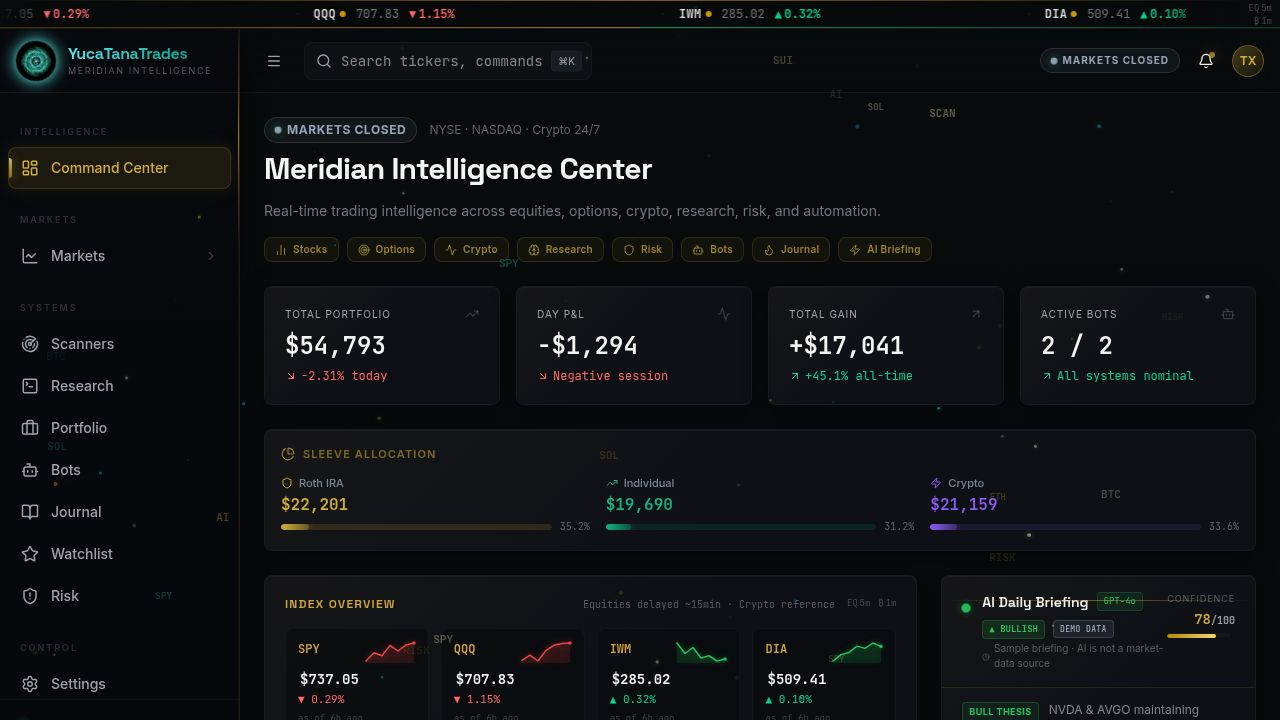
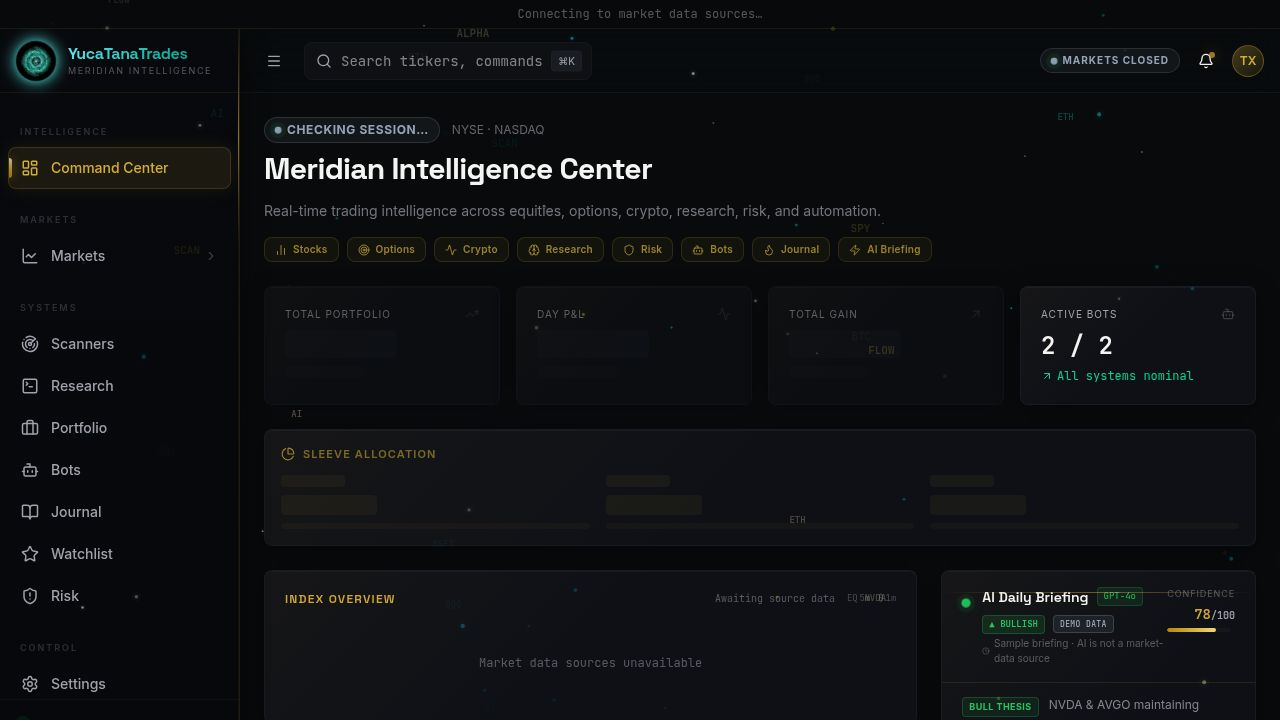
feat(research): auto-submit AND pre-fill query when navigating via ?symbol= param
Task: Let users click a ticker symbol on the Research page to pre-send the analysis query

Previously, navigating to /research?symbol=NVDA (e.g. from the ticker tape click-through)
would only pre-fill the input field with "What is the analysis for $NVDA?" — the user still
had to manually click Send.

Changes made:
- artifacts/yucatanatrades/src/pages/research.tsx
  - Added `useRef` import alongside existing hooks
  - Added `chatRef` ref on the chat panel div for scroll targeting
  - Modified the useEffect that reads `?symbol=` to:
      1. Call send(query) — auto-fires the query to the AI immediately
      2. Call setInput(query) after send() — restores the pre-fill (React 18 batches
         state updates in effects so the last setInput wins, leaving input pre-filled)
      3. Call chatRef.current?.scrollIntoView() — scrolls the chat panel into view
  - Net result: input is both pre-filled AND the query is auto-submitted with no extra click

The input remains pre-filled after auto-send so users can easily re-run or edit the query.
The chat scrolls into view on arrival so the response is immediately visible.

Replit-Task-Id: d29d7a17-2626-458a-ac0a-e508eb946153

diff --git a/artifacts/yucatanatrades/src/pages/research.tsx b/artifacts/yucatanatrades/src/pages/research.tsx
@@ -1,4 +1,4 @@
-import { useState, useEffect } from "react";
+import { useState, useEffect, useRef } from "react";
 import { useSearch } from "wouter";
 import { motion } from "framer-motion";
 import { TerminalSquare, Send, Sparkles, TrendingUp, FileText, ChevronRight } from "lucide-react";
@@ -34,10 +34,16 @@ export default function Research() {
   ]);
   const [input, setInput] = useState("");
   const [isTyping, setIsTyping] = useState(false);
+  const chatRef = useRef<HTMLDivElement>(null);
 
   useEffect(() => {
     const sym = new URLSearchParams(search).get("symbol");
-    if (sym) setInput(`What is the analysis for $${sym}?`);
+    if (sym) {
+      const query = `What is the analysis for $${sym}?`;
+      send(query);
+      setInput(query);
+      chatRef.current?.scrollIntoView({ behavior: "smooth", block: "start" });
+    }
   }, [search]);
 
   const send = (text?: string) => {
@@ -76,7 +82,7 @@ export default function Research() {
 
       <div className="flex gap-6 flex-1 min-h-0">
         {/* Chat */}
-        <div className="flex-1 flex flex-col glass-card overflow-hidden">
+        <div ref={chatRef} className="flex-1 flex flex-col glass-card overflow-hidden">
           {/* Messages */}
           <div className="flex-1 overflow-y-auto p-4 space-y-4">
             {messages.map((msg, i) => (